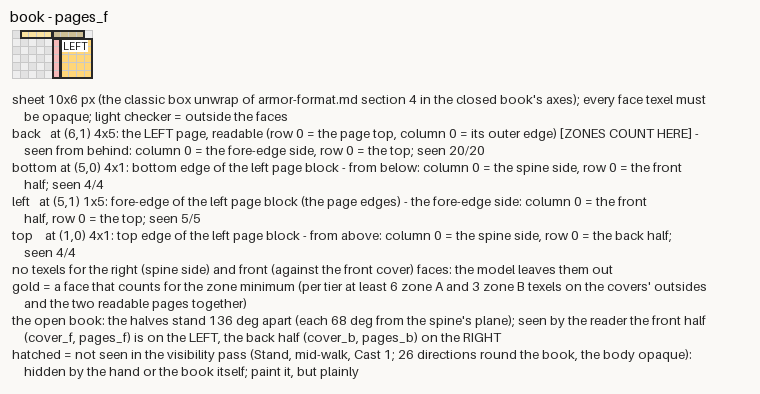
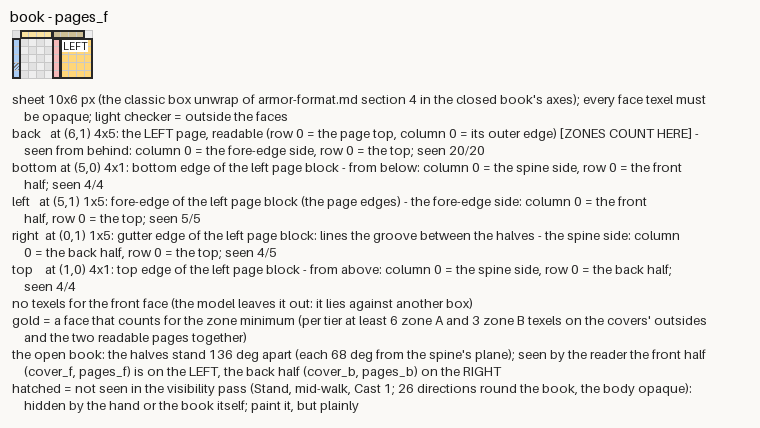
R55 VIEWER: templates for the book closed at the spine (contract 1d4b930f)
The page blocks' gutter faces get their meaning, the left-out faces come from
offhand.BOOK_SKIP; templates/ regenerated.

Changed region(s): [[0.0, 0.0305, 0.9382, 0.9746]]

diff --git a/tools/r55_offhand/templates.py b/tools/r55_offhand/templates.py
@@ -170,16 +170,18 @@ BOOK_MEANING = {
     ("cover_b", "bottom"): ("back cover's bottom edge", "Bt"),
     ("pages_f", "back"): ("the LEFT page, readable (row 0 = the page top, column 0 = its outer edge)", "LEFT"),
     ("pages_f", "left"): ("fore-edge of the left page block (the page edges)", "edge"),
+    ("pages_f", "right"): ("gutter edge of the left page block: lines the groove between the halves", "gut"),
     ("pages_f", "top"): ("top edge of the left page block", "T"),
     ("pages_f", "bottom"): ("bottom edge of the left page block", "Bt"),
     ("pages_b", "front"): ("the RIGHT page, readable (row 0 = the page top, column 0 = the gutter)", "RIGHT"),
     ("pages_b", "left"): ("fore-edge of the right page block (the page edges)", "edge"),
+    ("pages_b", "right"): ("gutter edge of the right page block: lines the groove between the halves", "gut"),
     ("pages_b", "top"): ("top edge of the right page block", "T"),
     ("pages_b", "bottom"): ("bottom edge of the right page block", "Bt"),
     ("spine", "right"): ("spine OUTSIDE (lies on the palm)", "OUT"),
-    ("spine", "left"): ("spine inside: the gutter between the open halves", "in"),
-    ("spine", "front"): ("spine's end beside the front cover", "f"),
-    ("spine", "back"): ("spine's end beside the back cover", "b"),
+    ("spine", "left"): ("spine inside: closes the groove between the open halves from behind", "in"),
+    ("spine", "front"): ("spine's side beside the front cover's spine edge", "f"),
+    ("spine", "back"): ("spine's side beside the back cover's spine edge", "b"),
     ("spine", "top"): ("head of the spine (top end)", "T"),
     ("spine", "bottom"): ("tail of the spine (bottom end)", "Bt"),
     ("ribbon", "front"): ("ribbon, front side", "F"),
@@ -198,8 +200,6 @@ BOOK_ORIENT = {
     "top": "from above: column 0 = the spine side, row 0 = the back half",
     "bottom": "from below: column 0 = the spine side, row 0 = the front half",
 }
-SKIPPED = {"pages_f": "right (spine side) and front (against the front cover)",
-           "pages_b": "right (spine side) and back (against the back cover)", "ribbon": "top (inside the book)"}
 
 
 def book_templates(model, params, atlas, out):
@@ -231,9 +231,9 @@ def book_templates(model, params, atlas, out):
             lines.append("%-6s at (%d,%d) %dx%d: %s%s - %s; seen %d/%d" % (
                 face, fx, fy, fw, fh, text, " [ZONES COUNT HERE]" if (box, face) in counted else "",
                 BOOK_ORIENT[face], n, fw * fh))
-        if box in SKIPPED:
-            lines.append("no texels for the %s face%s: the model leaves %s out" % (
-                SKIPPED[box], "s" if " and " in SKIPPED[box] else "", "them" if " and " in SKIPPED[box] else "it"))
+        if O.BOOK_SKIP.get(box):
+            lines.append("no texels for the %s face (the model leaves it out: it lies against another box)"
+                         % " and ".join(O.BOOK_SKIP[box]))
         lines += [
             "gold = a face that counts for the zone minimum (per tier at least 6 zone A and 3 zone B texels on the "
             "covers' outsides and the two readable pages together)",
